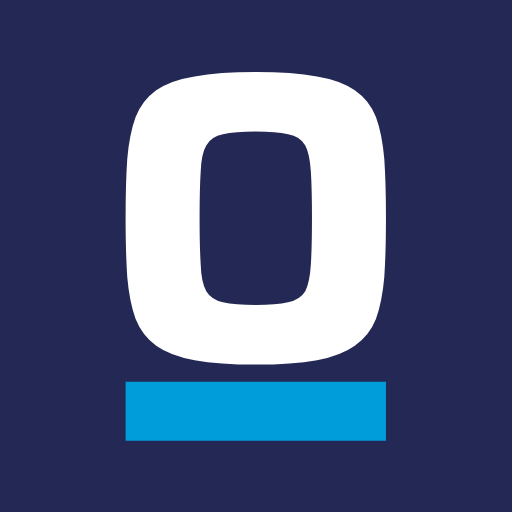
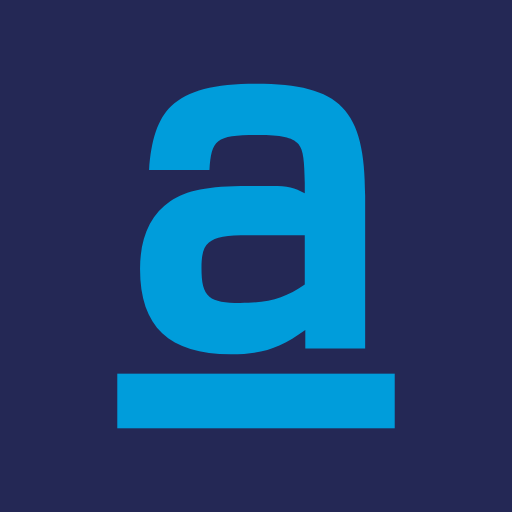
docs(page): Landing Page und Handbuch aktualisieren

Changed region(s): [[0.2188, 0.125, 0.7812, 0.875]]

diff --git a/index.html b/index.html
@@ -137,7 +137,7 @@ a:focus-visible,.btn:focus-visible{outline:3px solid var(--accent);outline-offse
 
 <div class="navbar"><div class="wrap">
   <nav class="pill" aria-label="Hauptnavigation">
-    <a class="brand" href="#"><!-- opaa-wortmarke --><svg class="wordmark" viewBox="0 0 138.5 45.9" role="img" aria-label="opaa"><path fill="currentColor" d="M15 33.7Q10.8 33.7 7.9 33.2Q5.1 32.6 3.5 31.5Q1.9 30.3 1.2 28.4Q0.4 26.5 0.2 23.6Q0 20.7 0 16.8Q0 12.8 0.2 10Q0.4 7.1 1.2 5.2Q1.9 3.3 3.5 2.1Q5.1 1 7.9 0.5Q10.8 0 15 0Q19.2 0 22 0.5Q24.8 1 26.4 2.1Q28 3.3 28.8 5.2Q29.5 7.1 29.7 10Q30 12.8 30 16.8Q30 20.7 29.7 23.6Q29.5 26.5 28.8 28.4Q28 30.3 26.4 31.5Q24.8 32.6 22 33.2Q19.2 33.7 15 33.7ZM15 26.8Q17.3 26.8 18.7 26.5Q20.1 26.2 20.6 25.2Q21.2 24.2 21.3 22.1Q21.4 20.1 21.4 16.8Q21.4 13.4 21.3 11.4Q21.2 9.4 20.6 8.4Q20.1 7.4 18.7 7.1Q17.3 6.8 15 6.8Q12.5 6.8 11.2 7.1Q9.9 7.4 9.3 8.4Q8.7 9.4 8.6 11.4Q8.5 13.4 8.5 16.8Q8.5 20.1 8.6 22.1Q8.7 24.2 9.3 25.2Q9.9 26.2 11.2 26.5Q12.5 26.8 15 26.8ZM37.9 45.9V0.5H45.8L46.1 4.6H46.5Q47.6 2.7 49.1 1.7Q50.6 0.7 52.5 0.4Q54.3 0 56.2 0Q59.2 0 61.3 0.8Q63.5 1.6 64.8 3.5Q66.2 5.4 66.8 8.6Q67.4 11.9 67.4 16.8Q67.4 21.6 66.8 24.9Q66.2 28.2 64.9 30.1Q63.6 32 61.5 32.8Q59.5 33.7 56.4 33.7Q54.3 33.7 52.5 33.3Q50.7 33 49.3 32.1Q47.9 31.2 46.8 29.6H46.3V45.9ZM52.6 26.3Q54.7 26.3 56 26Q57.3 25.7 57.9 24.8Q58.5 23.9 58.7 22Q58.9 20.1 58.9 16.8Q58.9 13.6 58.7 11.6Q58.5 9.7 57.9 8.8Q57.3 7.9 56 7.6Q54.7 7.3 52.6 7.3Q50.3 7.3 49.1 7.9Q47.9 8.5 47.2 9.8Q46.7 10.9 46.5 12.7Q46.3 14.5 46.3 16.8Q46.3 19.3 46.5 21Q46.7 22.7 47.2 23.8Q47.8 25.2 49.1 25.7Q50.4 26.3 52.6 26.3ZM119.5 33.7Q116.4 33.7 114.2 32.7Q112 31.8 110.9 29.7Q109.8 27.5 109.8 24Q109.8 20.2 110.7 18Q111.6 15.8 113.8 14.8Q116 13.8 120 13.8Q120.6 13.8 121.8 13.9Q122.9 13.9 124.4 13.9L127.4 14Q128.8 14 130 14.1V12.8Q130 10.7 129.7 9.5Q129.4 8.3 128.5 7.7Q127.6 7.1 125.9 7Q124.2 6.8 121.4 6.8Q120 6.8 118.1 6.9Q116.3 7 114.6 7.1Q112.8 7.2 111.8 7.4V1Q114.6 0.5 117.8 0.3Q121 0 124.2 0Q128.1 0 130.7 0.5Q133.2 1 134.8 2Q136.4 3 137.2 4.6Q138 6.1 138.2 8.3Q138.5 10.4 138.5 13.2V33.2H130.6L130.4 29.2H129.9Q128.8 31.2 127 32.1Q125.2 33.1 123.3 33.4Q121.3 33.7 119.5 33.7ZM123.5 27.1Q124.9 27.1 126 26.9Q127 26.8 127.8 26.3Q128.6 25.8 129.1 25Q129.5 24.2 129.8 23Q130 21.8 130 20V19.1H122.3Q120.5 19.1 119.6 19.3Q118.6 19.6 118.3 20.5Q118 21.4 118 23.2Q118 24.8 118.3 25.7Q118.7 26.6 119.9 26.8Q121.2 27.1 123.5 27.1Z"/><path fill="#009DDB" d="M83.3 33.7Q80.2 33.7 78 32.7Q75.8 31.8 74.7 29.7Q73.6 27.5 73.6 24Q73.6 20.2 74.5 18Q75.4 15.8 77.6 14.8Q79.9 13.8 83.8 13.8Q84.5 13.8 85.6 13.9Q86.8 13.9 88.3 13.9L91.2 14Q92.7 14 93.9 14.1V12.8Q93.9 10.7 93.6 9.5Q93.2 8.3 92.4 7.7Q91.5 7.1 89.7 7Q88 6.8 85.2 6.8Q83.8 6.8 82 6.9Q80.1 7 78.4 7.1Q76.7 7.2 75.6 7.4V1Q78.4 0.5 81.6 0.3Q84.8 0 88.1 0Q91.9 0 94.5 0.5Q97.1 1 98.7 2Q100.2 3 101 4.6Q101.8 6.1 102.1 8.3Q102.3 10.4 102.3 13.2V33.2H94.5L94.2 29.2H93.7Q92.6 31.2 90.8 32.1Q89.1 33.1 87.1 33.4Q85.2 33.7 83.3 33.7ZM87.4 27.1Q88.8 27.1 89.8 26.9Q90.9 26.8 91.7 26.3Q92.5 25.8 92.9 25Q93.4 24.2 93.6 23Q93.9 21.8 93.9 20V19.1H86.1Q84.4 19.1 83.4 19.3Q82.4 19.6 82.1 20.5Q81.8 21.4 81.8 23.2Q81.8 24.8 82.2 25.7Q82.6 26.6 83.8 26.8Q85 27.1 87.4 27.1ZM70.7 35.7H106.2V42.4H70.7Z"/></svg><!-- /opaa-wortmarke --><span class="b">BETA</span></a>
+    <a class="brand" href="#"><!-- opaa-wortmarke --><svg class="wordmark" viewBox="0 0 482.39 167.52" role="img" aria-label="opaa"><path fill="currentColor" d="M455.03,68.64v22.32c-9.12,6.24-16.32,8.4-29.28,8.4-6.96,0-11.28-.72-13.92-2.88-2.88-2.4-3.6-6.48-3.6-12.96,0-5.76.72-9.36,3.36-11.52,2.88-2.64,8.16-3.36,17.76-3.36H455.03ZM482.39,120V50.64c0-38.88-11.04-50.64-49.44-50.64-18.96,0-30.96,3.12-38.4,10.08-6.24,6-9.12,15.36-10.08,29.04h27.36c.96-13.92,2.88-15.84,22.08-15.84,10.32,0,15.36.96,18.24,4.08,2.4,2.88,2.64,8.16,2.88,17.52v4.8c-4.56-2.64-7.92-3.36-14.64-3.36h-11.04c-18.24,0-27.84,1.92-35.28,6.96-9.12,6.24-13.68,16.56-13.68,30.72,0,26.16,13.2,38.64,41.04,38.64,14.4,0,22.56-2.88,33.84-11.04v8.4H482.39ZM157.68,34.08c8.4-7.44,16.32-10.32,28.32-10.32,17.76,0,18.96,2.4,18.96,37.68s-1.2,37.44-18.96,37.44c-11.76,0-19.68-2.88-28.32-10.8V34.08ZM130.08,2.64v164.88h27.6v-55.92c11.28,8.64,19.44,11.04,34.32,11.04s26.4-3.84,32.64-12.24c6.24-8.4,8.88-23.28,8.88-48.96s-2.64-40.32-8.88-48.72C218.4,4.32,207.6,0,191.52,0c-14.64,0-23.28,2.88-34.56,11.04V2.64H130.08ZM52.56,122.64c42.24,0,52.32-11.76,52.32-61.2S94.8,0,52.56,0,0,12,0,61.44,10.08,122.64,52.56,122.64M52.56,98.88c-22.8,0-24-1.92-24-37.44s1.2-37.68,24-37.68,23.76,1.92,23.76,37.68S75.12,98.88,52.56,98.88"/><path fill="#009DDB" d="M329.28,68.64v22.32c-9.12,6.24-16.32,8.4-29.28,8.4-6.96,0-11.28-.72-13.92-2.88-2.88-2.4-3.6-6.48-3.6-12.96,0-5.76.72-9.36,3.36-11.52,2.88-2.64,8.16-3.36,17.76-3.36H329.28ZM356.64,120V50.64c0-38.88-11.04-50.64-49.44-50.64-18.96,0-30.96,3.12-38.4,10.08-6.24,6-9.12,15.36-10.08,29.04h27.36c.96-13.92,2.88-15.84,22.08-15.84,10.32,0,15.36.96,18.24,4.08,2.4,2.88,2.64,8.16,2.88,17.52v4.8c-4.56-2.64-7.92-3.36-14.64-3.36h-11.04c-18.24,0-27.84,1.92-35.28,6.96-9.12,6.24-13.68,16.56-13.68,30.72,0,26.16,13.2,38.64,41.04,38.64,14.4,0,22.56-2.88,33.84-11.04v8.4H356.64ZM244.32,131.39h125.72v24.75h-125.72Z"/></svg><!-- /opaa-wortmarke --><span class="b">BETA</span></a>
     <div class="links">
       <a href="https://opaa.io/handbuch/">Handbuch</a>
       <a href="https://demo.opaa.io">Demo</a>
